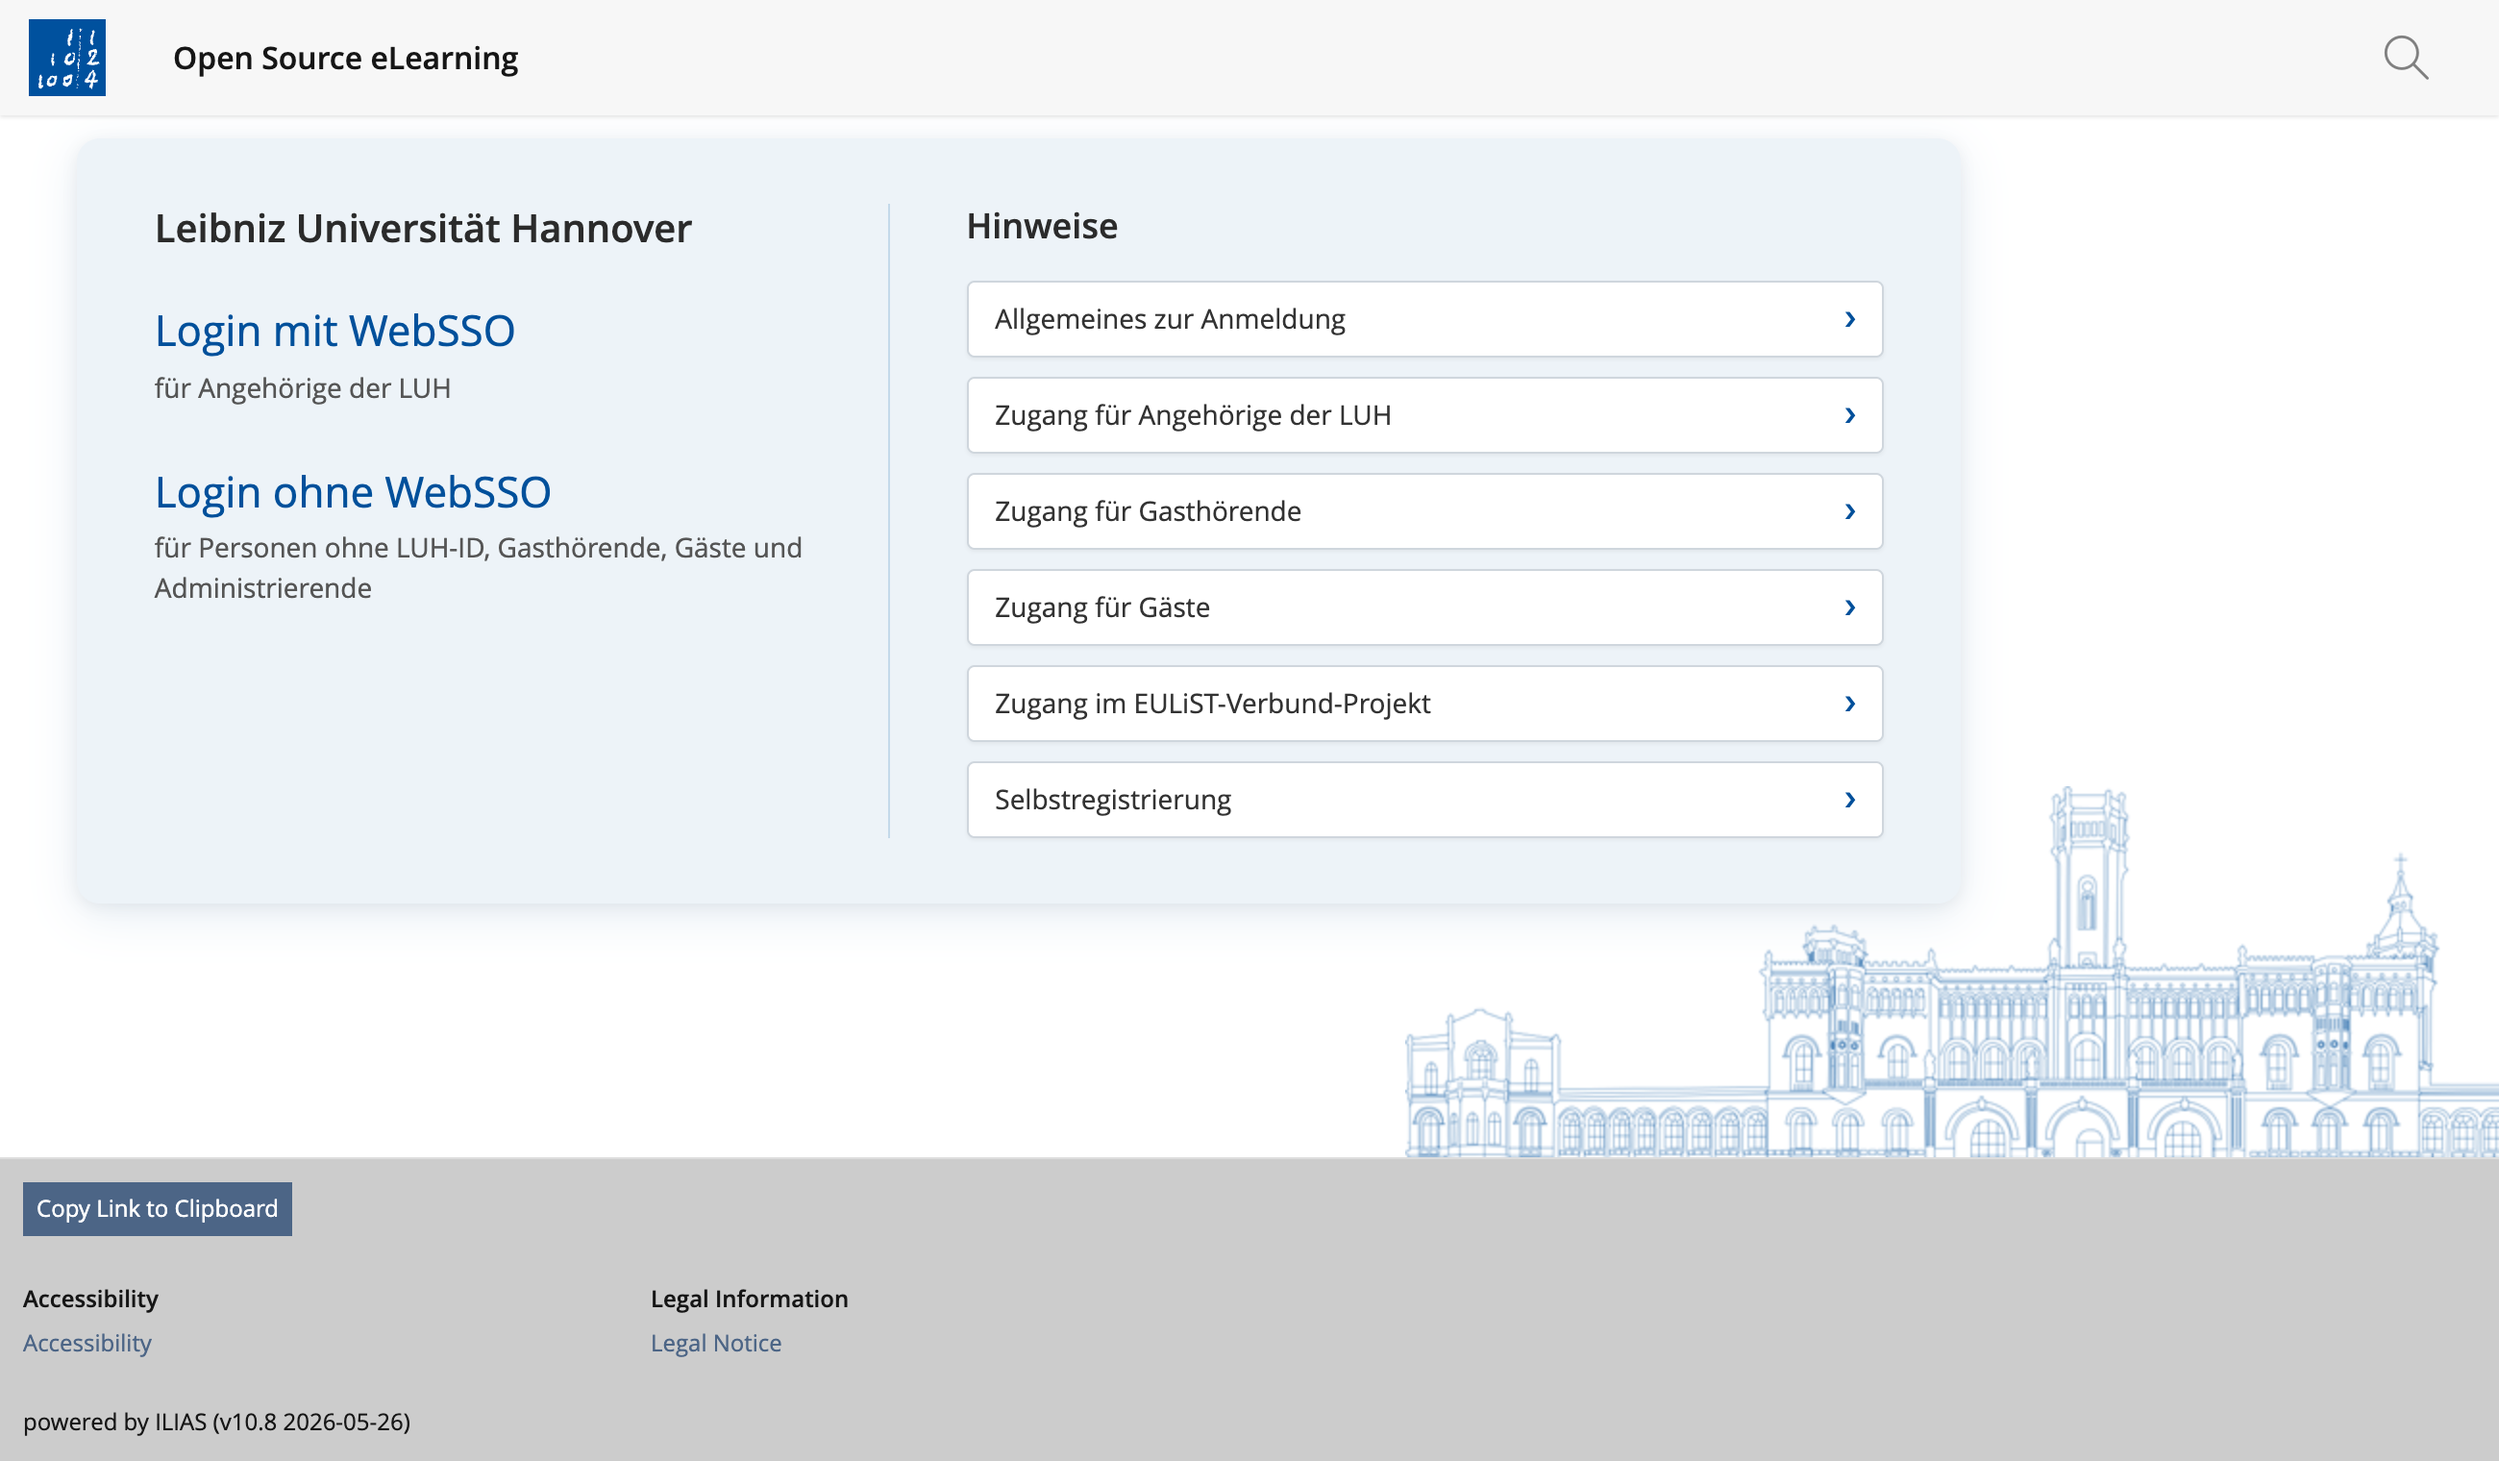
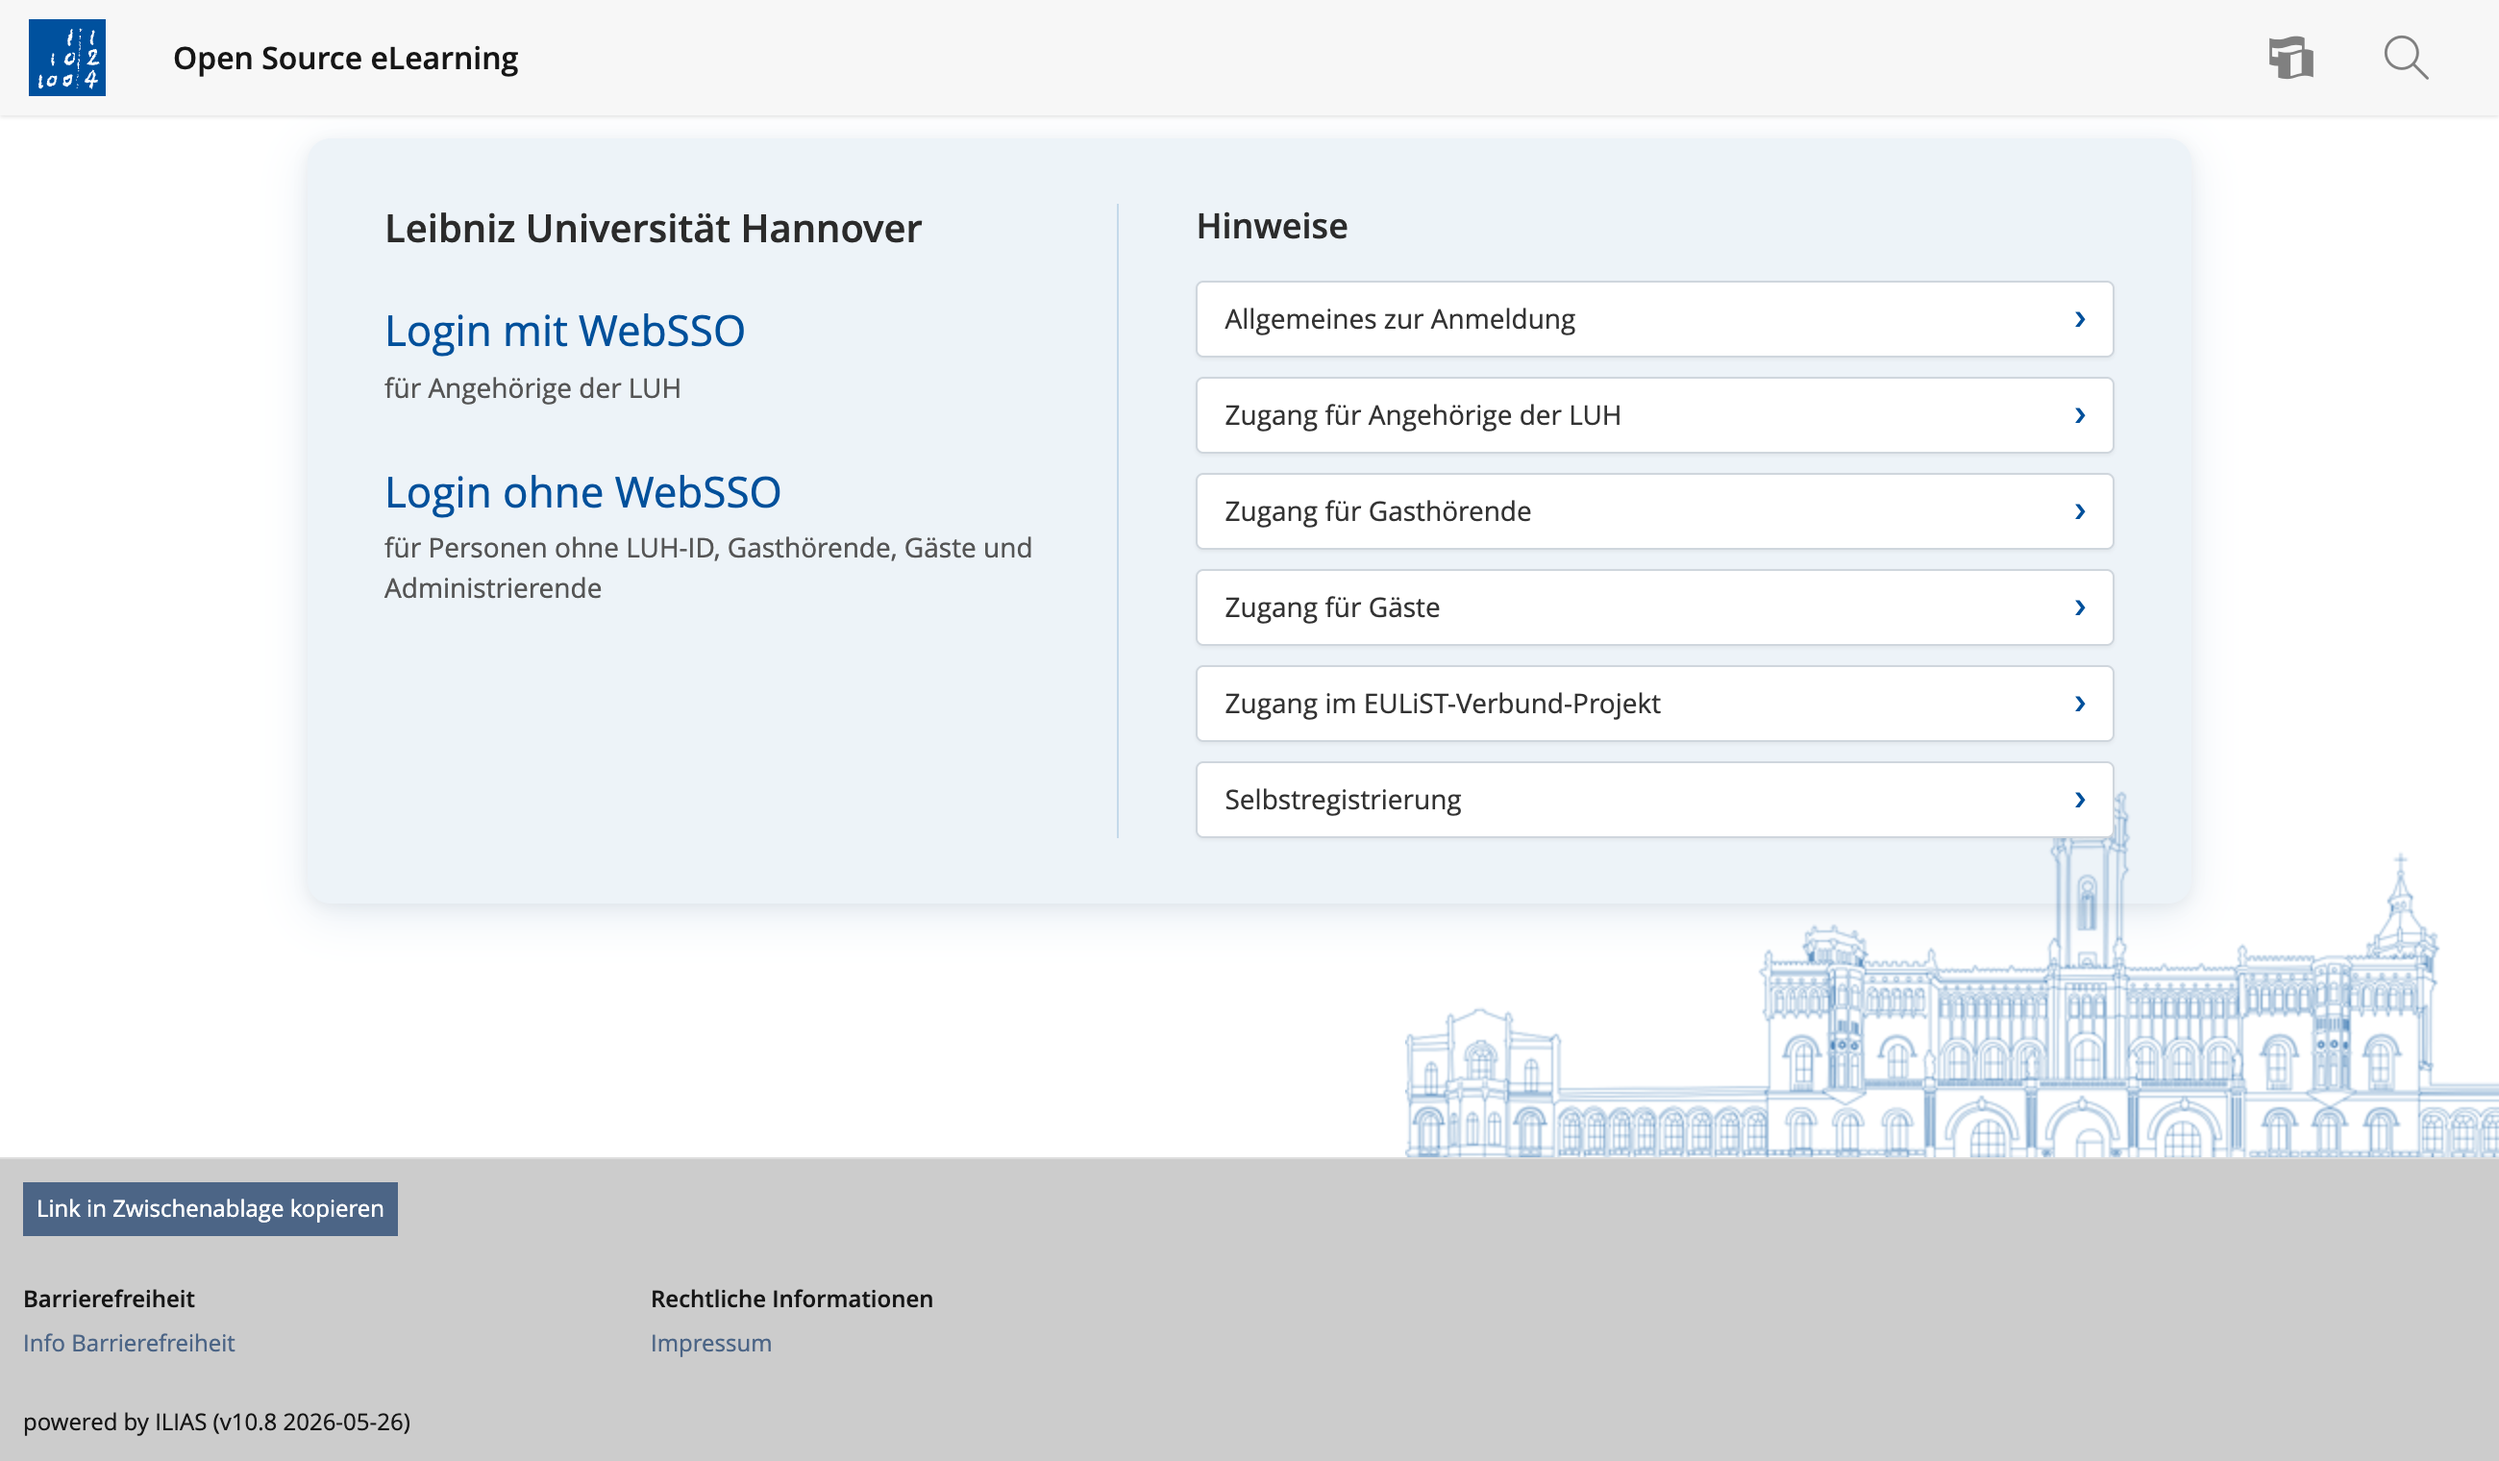
style(login): centre the login mask horizontally at the top of the page
The card was pinned to the left edge via `margin-left: 2%`, a holdover from the
narrower link-button layout. At 980px it now sits noticeably off-centre on wide
screens.

Centre it with auto side margins. Vertical centring is deliberately not applied:
the card stays at the top edge so it does not shift downwards as accordion panels
expand. The 720px breakpoint no longer needs its own `margin-left`, since auto
margins split the remaining 24px into an even gutter.

Also correct the rationale in shoot-login.js and tools/README.md: the local
instance's default language depends on which packs are installed there, so the
script pins <html lang> for a deterministic capture rather than compensating for a
missing German pack. Documents that SHOOT_LANG switches only the skin's bilingual
blocks and not ILIAS's own server-rendered strings.

diff --git a/LUH-Style/scss/pages/_login.scss b/LUH-Style/scss/pages/_login.scss
@@ -1,6 +1,7 @@
 // scss/pages/_login
 // Login page: two-column card — left = login options (WebSSO / ohne WebSSO),
-// right = the "Hinweise" accordion. Left-aligned card, responsive to a single column.
+// right = the "Hinweise" accordion. Card is horizontally centred at the top of the
+// page and collapses to a single column on narrow viewports.
 @use "../settings/colors" as *;
 
 // ── Bilingual content ─────────────────────────────────────────────────────
@@ -45,10 +46,13 @@ div.ilStartupSection form.form-horizontal,
     margin: 0;
 }
 
-// ── Outer card — left-aligned ─────────────────────────────────────────────
+// ── Outer card — horizontally centred, kept at the top of the page ────────
 #luhLogin {
     padding: 34px 40px;
-    margin-left: 2%;
+    // Centred horizontally; no vertical centring, so the card stays at the top
+    // edge and does not move down as panels expand.
+    margin-left: auto;
+    margin-right: auto;
     // Wider than the previous link-button layout: the accordion panels hold running
     // prose, which is hard to read in the ~300px the old 760px card left for them.
     width: 980px;
@@ -355,7 +359,7 @@ div.index_main nav {
 @media (max-width: 720px) {
     #luhLogin {
         width: calc(100% - 24px);
-        margin-left: 12px;
+        // margin-left/right: auto from the base rule keeps the 12px gutter even
         padding: 26px 22px;
     }
 

diff --git a/tools/shoot-login.js b/tools/shoot-login.js
@@ -9,10 +9,16 @@
  *   1. It has no Shibboleth, so the real "Login mit WebSSO" option is not rendered.
  *      This script injects that option exactly as ILIAS emits it on production (see
  *      components/ILIAS/Init/tpl.login_form_shibboleth.html).
- *   2. Only the English language pack is installed, so ILIAS writes <html lang="en">
- *      and the login mask shows its English strings. Production runs German by
- *      default. The script forces lang="de" so the README screenshot matches what
- *      LUH users actually see. Set SHOOT_LANG=en to capture the English variant.
+ *   2. Its default UI language depends on which language packs happen to be installed
+ *      in that instance, while production runs German. The script pins <html lang>
+ *      so the README screenshot is deterministic regardless of the local default.
+ *
+ *      SHOOT_LANG only switches the skin's own bilingual blocks (the ones keyed off
+ *      html:lang in _login.scss — see the "Zweisprachigkeit" section in README.md).
+ *      ILIAS's server-rendered strings around them (footer, page title) follow the
+ *      instance's configured language, so SHOOT_LANG=en on a German instance yields
+ *      an English login mask inside a German page frame. For a fully English capture,
+ *      switch the instance language in ILIAS instead.
  *
  * Usage:
  *   1. Bring up the ILIAS 10 stack (docker compose up -d in ../ilias10) and recompile

diff --git a/LUH-Style/LUH-Style.css b/LUH-Style/LUH-Style.css
@@ -21619,7 +21619,8 @@ div.ilStartupSection form.form-horizontal,
 
 #luhLogin {
   padding: 34px 40px;
-  margin-left: 2%;
+  margin-left: auto;
+  margin-right: auto;
   width: 980px;
   max-width: calc(100% - 24px);
   background-color: rgba(0, 80, 155, 0.07);
@@ -21871,7 +21872,6 @@ div.index_main nav {
 @media (max-width: 720px) {
   #luhLogin {
     width: calc(100% - 24px);
-    margin-left: 12px;
     padding: 26px 22px;
   }
   .luh-login-grid {

diff --git a/tools/README.md b/tools/README.md
@@ -17,11 +17,15 @@ docker compose -f ilias10/docker-compose.yml up -d
 
 # 2. Capture. The script compensates for two ways the local stack differs from
 #    production: it injects the "Login mit WebSSO" option (no Shibboleth locally)
-#    and forces lang="de" (only the English language pack is installed locally,
-#    so ILIAS would otherwise render the mask's English strings).
+#    and pins <html lang> so the capture does not depend on which language packs
+#    the local instance happens to have installed.
 cd ilias10/public/Customizing/skin/luh
 node tools/shoot-login.js
 ```
+
+`SHOOT_LANG` switches only the skin's bilingual blocks, not ILIAS's own strings —
+`SHOOT_LANG=en` on a German instance gives an English login mask in a German page
+frame. For a fully English capture, switch the instance language in ILIAS itself.
 
 The script needs puppeteer resolvable from `require`. With no `node_modules` in this
 repo, install it somewhere and point Node at it:
